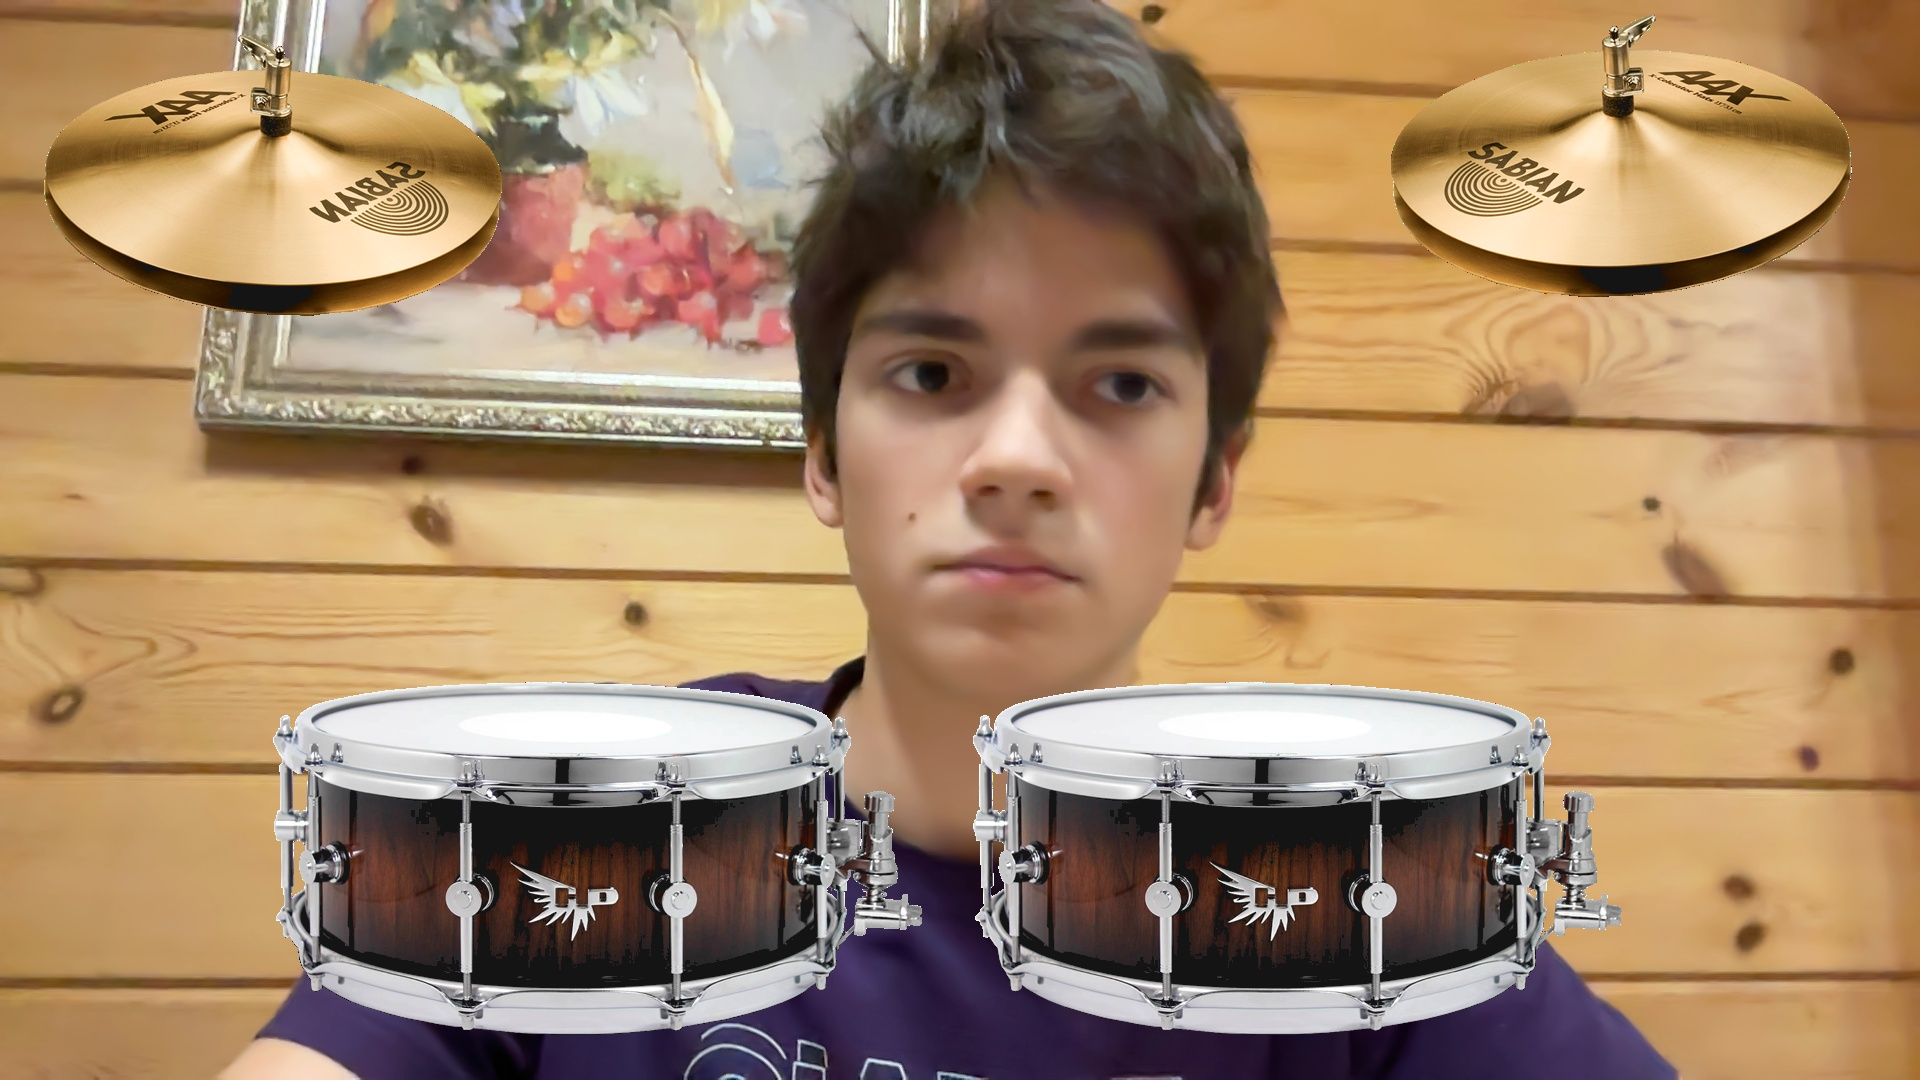
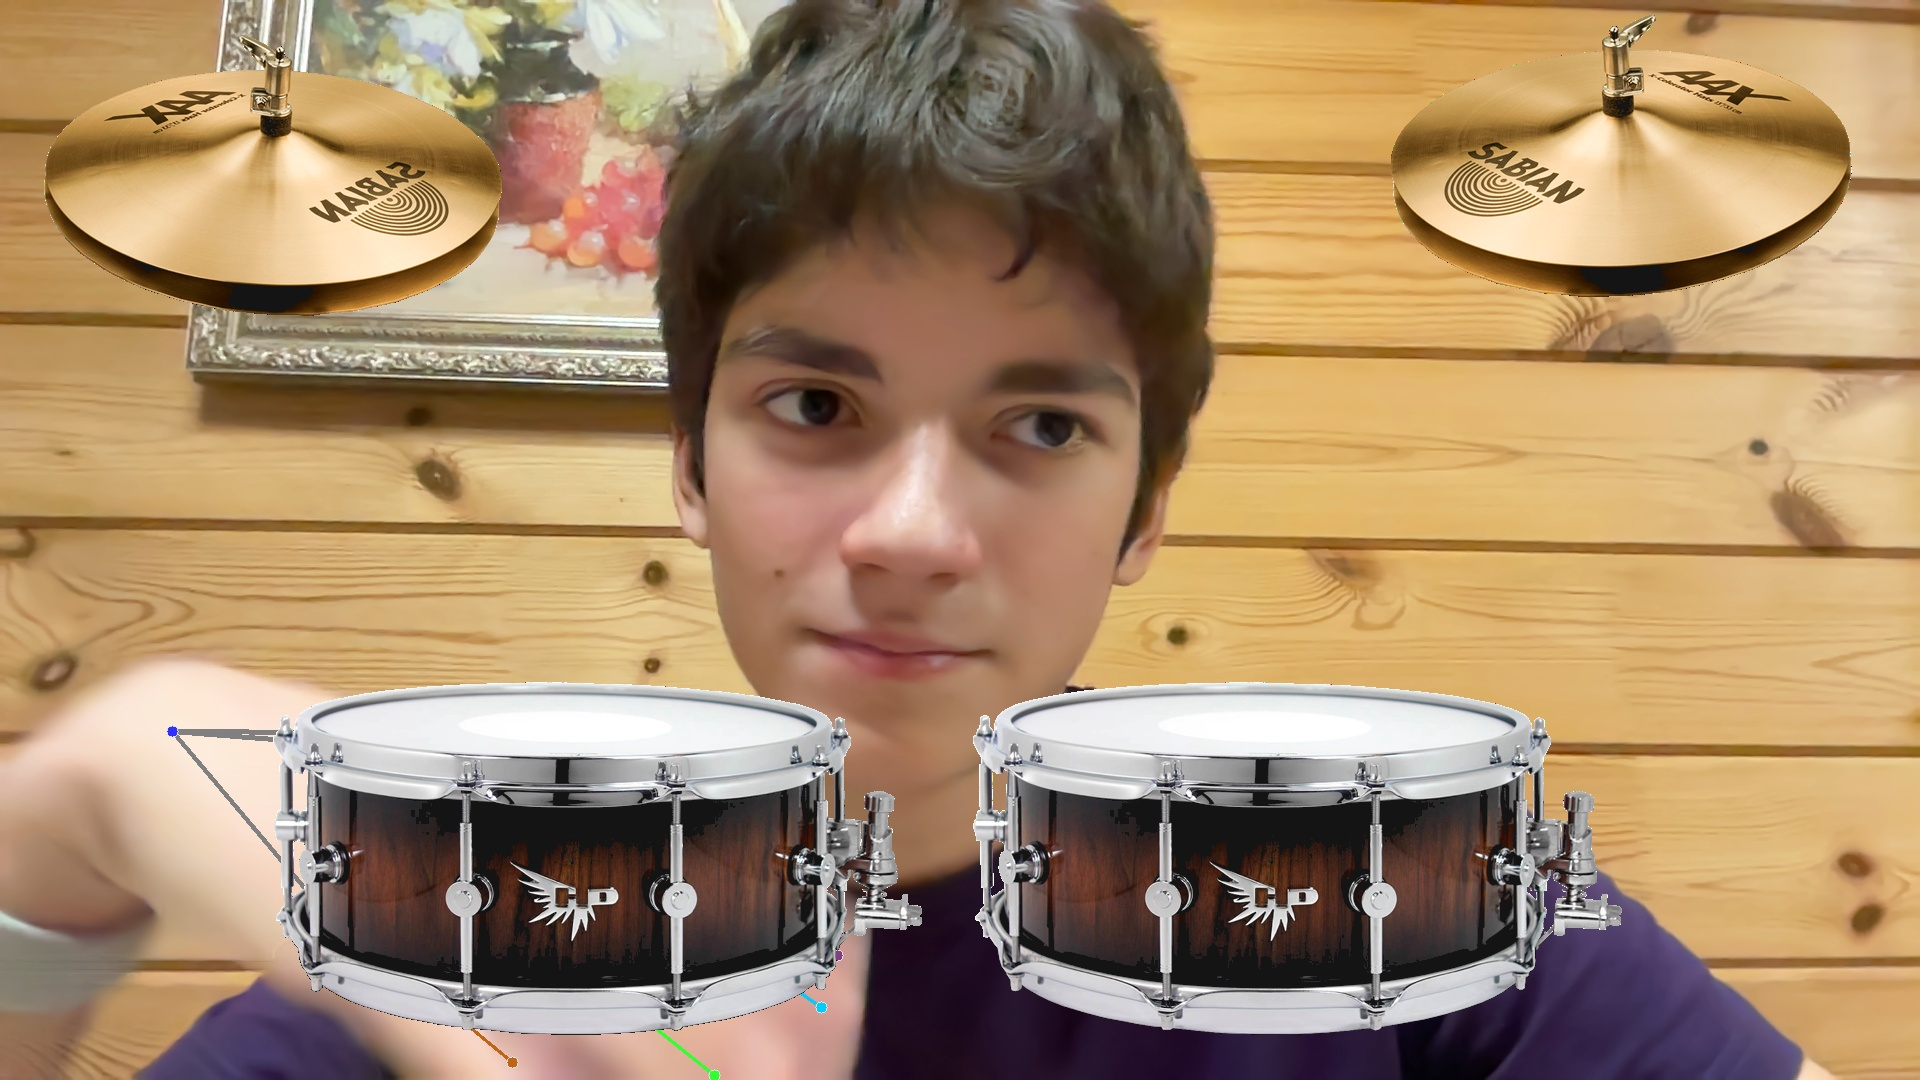
Добавил crash

diff --git a/main.py b/main.py
@@ -35,13 +35,14 @@ def compbine_img(img1, img2):
 def tom_sound():
     tom.play()
 
-
 def bass_sound():
     bass.play()
 
-
 def ride_sound():
     ride.play()
+
+def crash_sound():
+    crash.play()
 
 pygame.init()
 clock = pygame.time.Clock()
@@ -69,6 +70,9 @@ bass_flag_l = False
 
 ride_flag_r = False
 ride_flag_l = False
+
+crash_flag_r = False
+crash_flag_l = False
 
 k = 1
 last = time.time()
@@ -148,6 +152,19 @@ while(cap.isOpened()):
                     ride_flag_r = False
                     k += 1
 
+                # CRASH
+                if 0.0281 < x_pos_r < 0.2572 and 0.0703 < y_pos_r < 0.2842:
+                    now = time.time()
+
+                    if crash_flag_r == False:
+                        if now - last > TIME_LIMIT:
+                            crash_flag_r = True
+                            crash_sound()
+                            last = time.time()
+                else:
+                    crash_flag_r = False
+                    k += 1
+
 
             # Если левая
             elif now_hand_type == "Left":
@@ -196,17 +213,36 @@ while(cap.isOpened()):
                     ride_flag_l = False
                     k += 1
 
-            else:
-                tom_flag_r = False
-                tom_flag_l = False
-                bass_flag_r = False
-                bass_flag_l = False
+                # CRASH
+                if 0.0281 < x_pos_l < 0.2572 and 0.0703 < y_pos_l < 0.2842:
+                    now = time.time()
+
+                    if crash_flag_l == False:
+                        if now - last > TIME_LIMIT:
+                            crash_flag_l = True
+                            crash_sound()
+                            last = time.time()
+                else:
+                    crash_flag_l = False
+                    k += 1
+
+    else:
+        tom_flag_r = False
+        tom_flag_l = False
+        bass_flag_r = False
+        bass_flag_l = False
+        ride_flag_r = False
+        ride_flag_l = False
+        crash_flag_r = False
+        crash_flag_l = False
 
 
     # переводим в BGR и показываем результат
     res_image = cv2.cvtColor(flippedRGB, cv2.COLOR_RGB2BGR)
 
     cv2.imshow("Drums", compbine_img(res_image, drum))
+
+
 
 # освобождаем ресурсы
 handsDetector.close()
